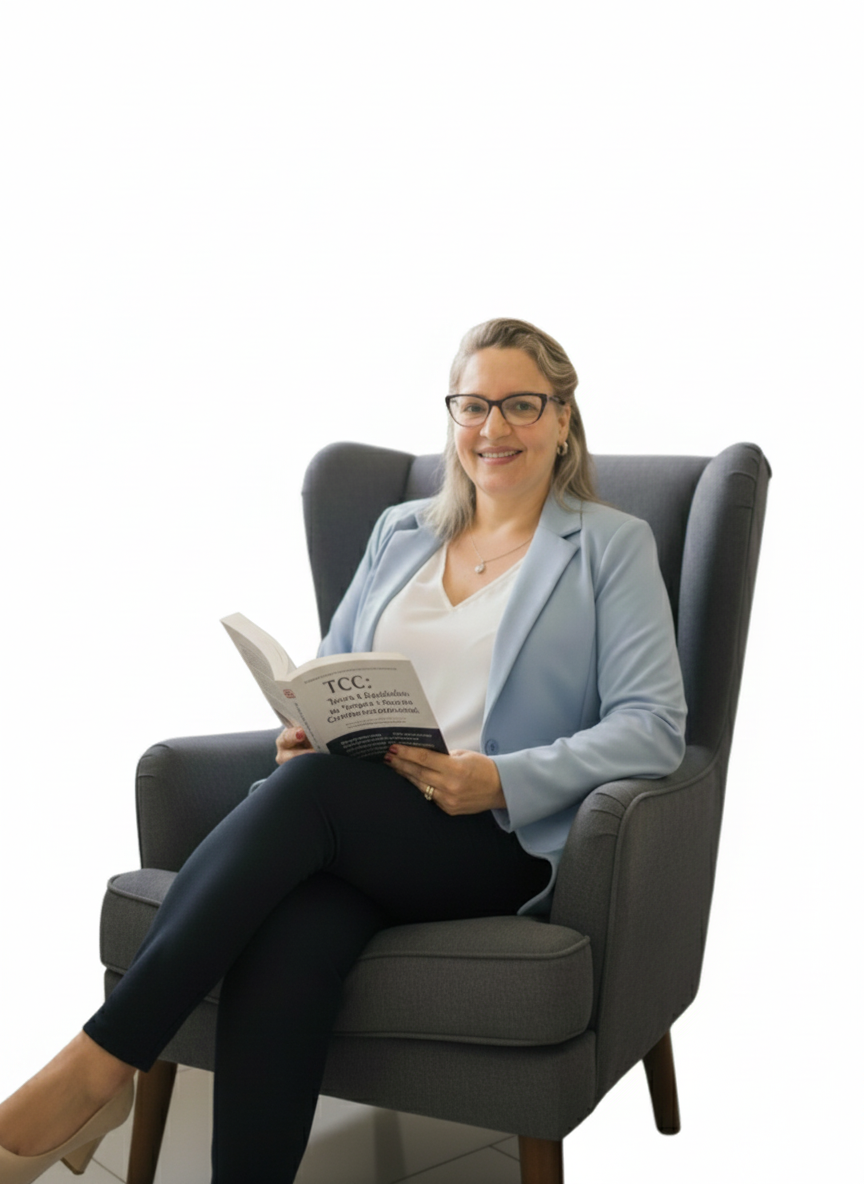
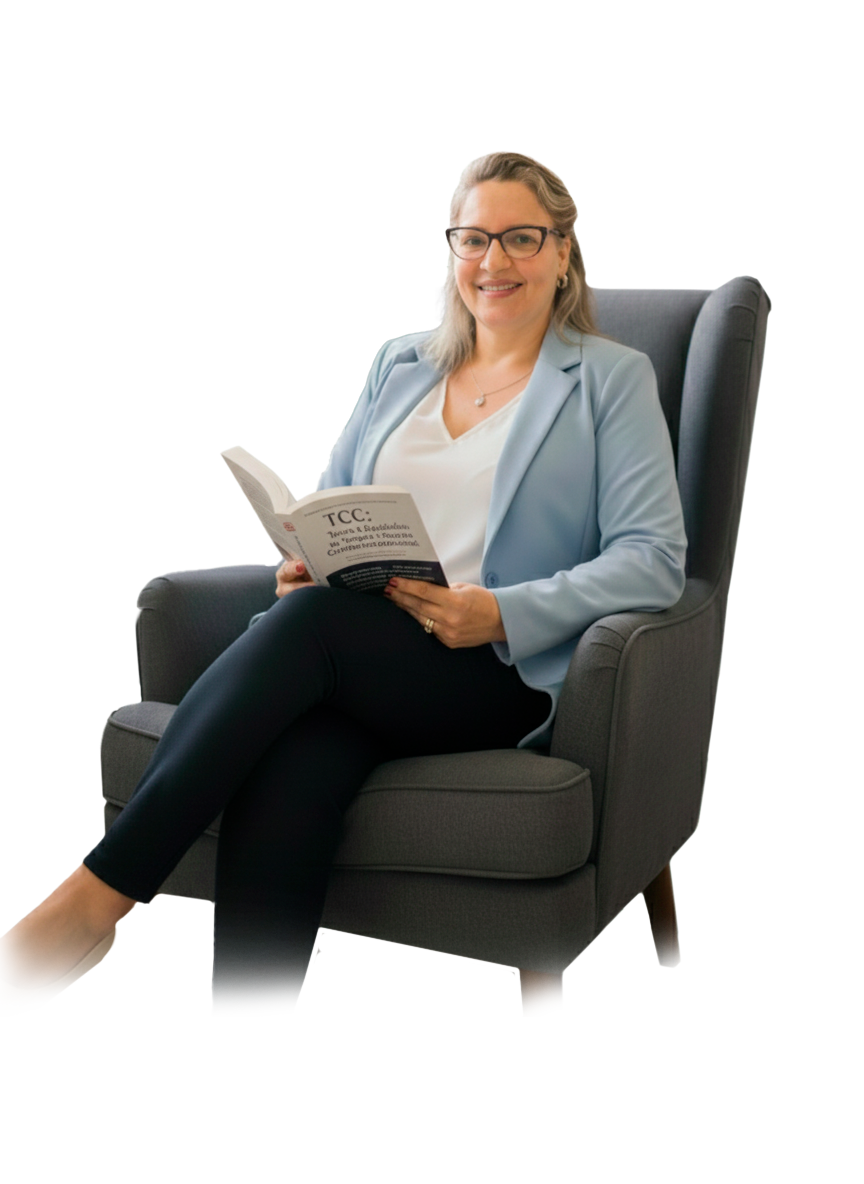
adicionando nova foto e aumentando o tamanho

diff --git a/assets/style.css b/assets/style.css
@@ -102,7 +102,7 @@ section {
 }
 
 .secao-inicial .banner-inicial img {
-  width: 300px;
+  width: 500px;
 }
 
 .secao-inicial .info {
@@ -151,7 +151,7 @@ section {
 }
 
 .secao-sobre-mim img {
-  width: 300px;
+  width: 400px;
 }
 
 .secao-sobre-mim .info {
@@ -506,7 +506,7 @@ footer a {
   }
 
   .secao-sobre-mim img {
-    width: 200px;
+    width: 300px;
   }
 
   .secao-sobre-mim .info {
